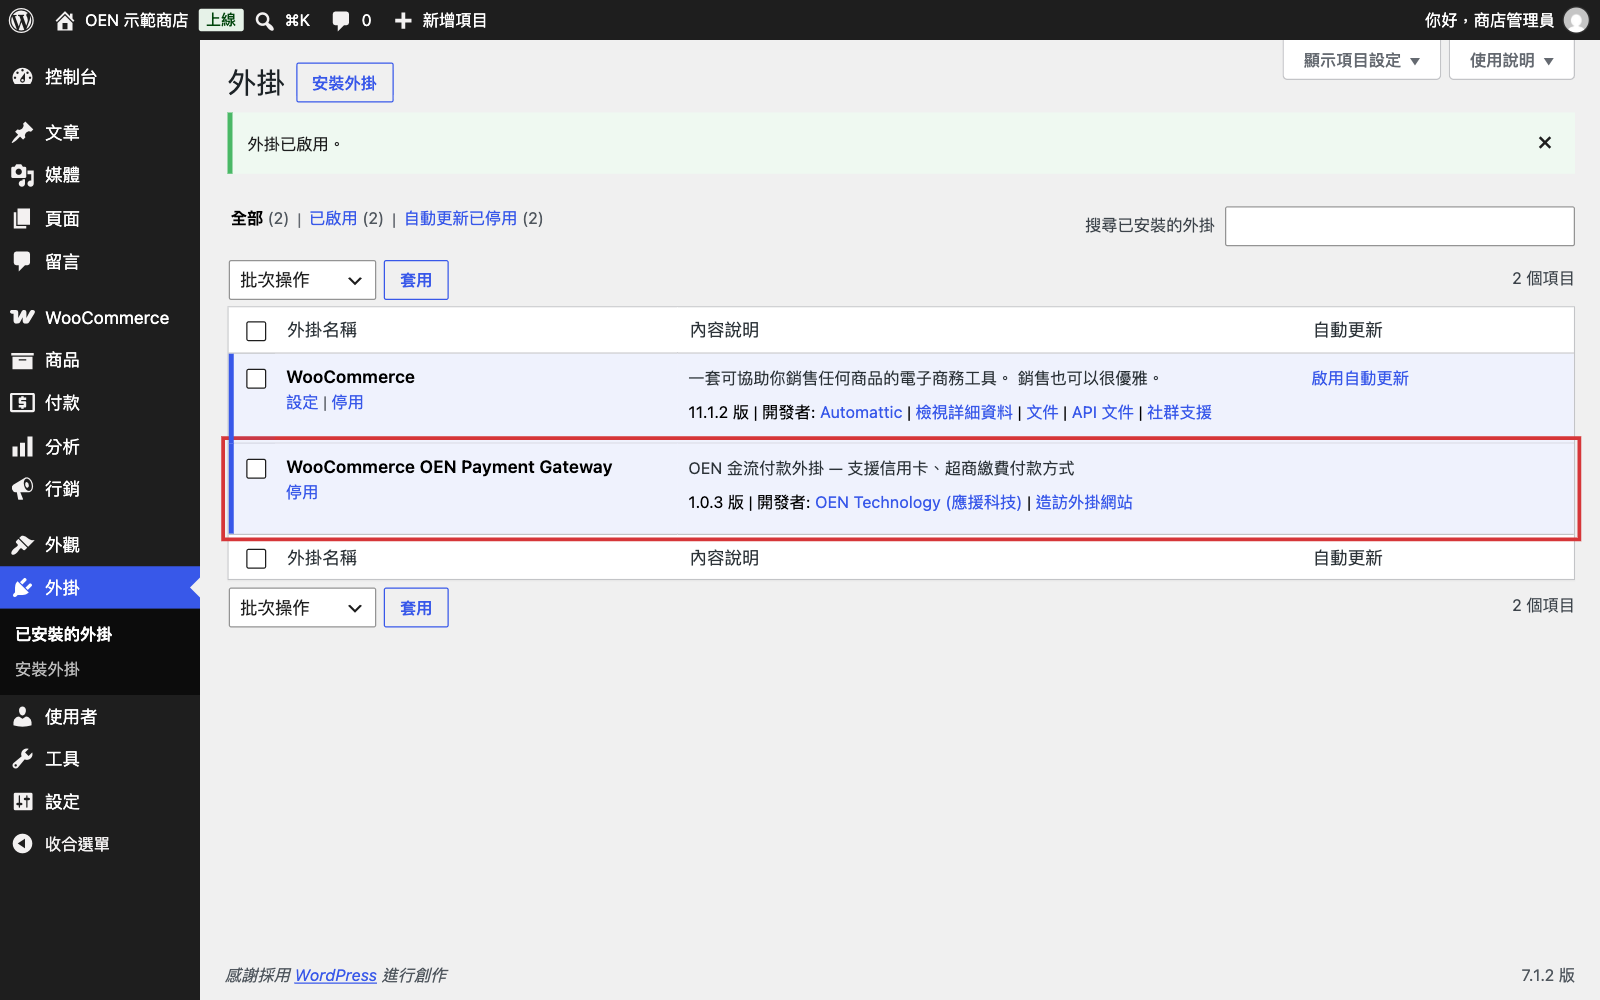
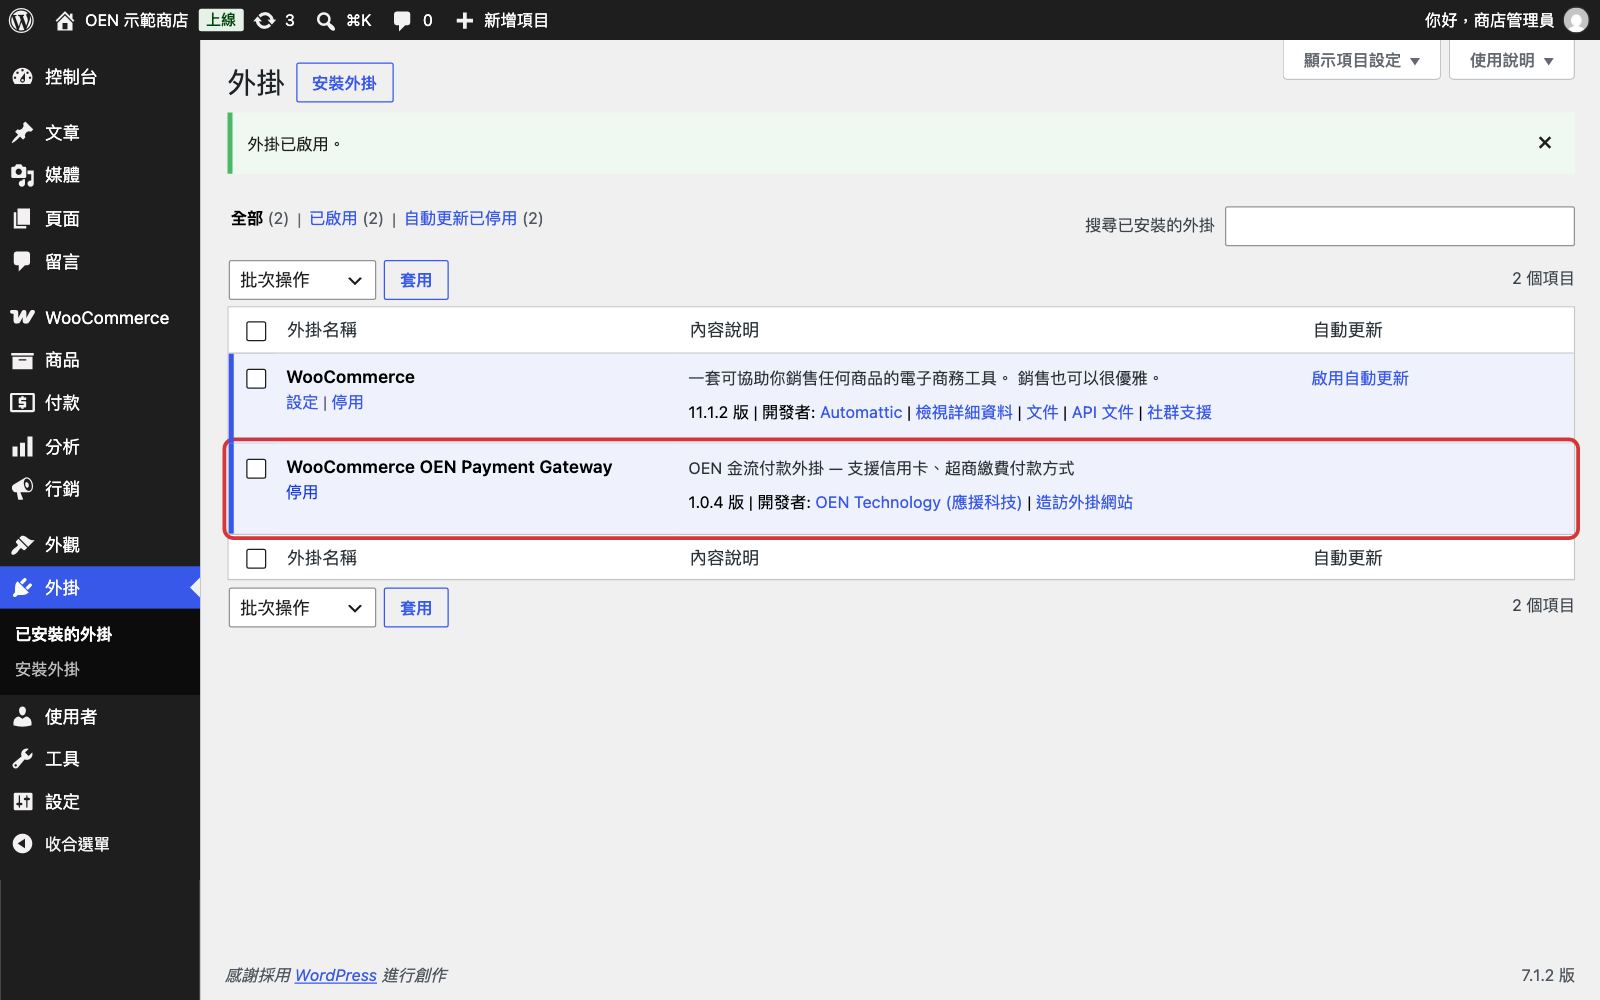
docs: address review notes
- The order number sent to OEN is the prefix plus the WooCommerce order ID;
  say so, and note that it differs from the displayed number only on stores
  with a custom order-number plugin.
- FAQ log table: "Session/API verification failed" also covers OEN
  rejecting the lookup (HTTP 401 means a wrong or revoked Secret Key or the
  wrong environment).
- README: state ATM as not supported instead of announcing it.
- Retake the plugin-list screenshot with the 1.0.4 header.

Changed region(s): [[0.125, 0.496, 1.0, 0.558], [0.125, 0.434, 1.0, 0.465], [0.1562, 0.0, 0.3438, 0.031]]

diff --git a/README.md b/README.md
@@ -62,7 +62,6 @@
 |---|---|---|---|
 | 信用卡 | OEN 信用卡 | 可用 | 可從 WooCommerce 後台全額或部分退款 |
 | 超商代碼繳費 | OEN 超商繳費 | 可用 | 不支援 |
-| ATM 虛擬帳號 | OEN 虛擬帳號轉帳 | 開發中，尚未開放 | — |
 
 結帳頁顯示名稱可在 **WooCommerce › 設定 › 付款** 中修改。
 
@@ -82,7 +81,7 @@
 - 金額以整數元送出。
 - 只有信用卡支援退款。
 - 應援金流的定期定額、綁定信用卡、多幣別收款，外掛目前不支援。
-- ATM 虛擬帳號尚未開放。
+- 不支援 ATM 虛擬帳號轉帳。
 - 超商繳費代碼以排程查詢取得，需要 WordPress 的排程（WP-Cron）正常執行。
 - 外掛不會刪除應援上的 Webhook。變更網站網址後，舊網址的 Webhook 如需移除，請洽應援。
 - 停用或刪除外掛不會清除外掛的設定與訂單資料。
@@ -138,7 +137,7 @@
 | 設定 | 說明 |
 |---|---|
 | 啟用 OEN 金流付款方式 | 主開關。關閉時所有應援付款方式都不會出現 |
-| 訂單編號前綴 | 加在 WooCommerce 訂單編號前面，組成送給應援的訂單編號。**有未付款訂單時請勿更改**：這些訂單再次進入結帳時，會因訂單編號與既有的應援付款不符而被拒絕 |
+| 訂單編號前綴 | 加在 WooCommerce 訂單 ID 前面，組成送給應援的訂單編號。訂單 ID 預設與訂單編號相同；使用自訂訂單編號的外掛時，以訂單 ID 為準。**有未付款訂單時請勿更改**：這些訂單再次進入結帳時，會因訂單編號與既有的應援付款不符而被拒絕 |
 | 顯示訂單商品名稱 | 送出逐項商品明細，而非單一彙總品項 |
 | 在 Email 中顯示付款資訊 | 在訂單通知信加入交易編號、付款時間、超商繳費代碼 |
 | OEN 測試環境 | 連線應援測試環境 |
@@ -235,7 +234,7 @@ https://<你的網站>/?wc-api=oen_payment
 
 建立應援付款時，外掛會送出：
 
-- 訂單總額（整數，新台幣）與訂單編號（訂單編號前綴＋WooCommerce 訂單編號）。
+- 訂單總額（整數，新台幣）與訂單編號（訂單編號前綴＋WooCommerce 訂單 ID）。
 - 帳單姓名與 Email。
 - 商品明細：未勾選「顯示訂單商品名稱」時為單一品項「{網站名稱} 訂單」；勾選時為逐項商品（SKU 或商品 ID、名稱、數量、含稅單價），另加手續費與運費。
 - 付款完成、失敗、取消時要導回的商店頁面網址。
@@ -297,7 +296,7 @@ sequenceDiagram
 |---|---|
 | OEN 信用卡 | `oen_credit` |
 | OEN 超商繳費 | `oen_cvs` |
-| OEN 虛擬帳號轉帳（尚未開放，不會註冊） | `oen_atm` |
+| OEN 虛擬帳號轉帳（不會註冊） | `oen_atm` |
 
 | 設定 | Option |
 |---|---|

diff --git a/docs/faq.md b/docs/faq.md
@@ -117,7 +117,7 @@
 | `Payment completed for order #…` | 已向應援確認付款並更新訂單 | 無須處理 |
 | `Invalid webhook signature`、`Missing OenPay-Signature header` | 應援通知的簽章驗證失敗 | 勾選「Re-register webhook」後儲存，重新同步簽章密鑰 |
 | `Expired webhook signature timestamp` | 伺服器時間和實際時間相差超過 300 秒 | 校正伺服器系統時間 |
-| `Session verification failed for order #…` | 外掛向應援查詢付款結果時連線失敗或逾時 | 確認網站能對外連線到應援。外掛不會變更訂單，並等待應援重送通知 |
+| `Session verification failed for order #…`、`API verification failed for order #…` | 外掛向應援查詢付款結果失敗：連線失敗、逾時，或應援拒絕查詢 | 確認網站能對外連線到應援。冒號後的訊息含 HTTP 401 時，確認 Secret Key 有效，且與「OEN 測試環境」的勾選屬於同一個環境。外掛不會變更訂單，並等待應援重送通知 |
 | `Order ID mismatch during …`、`Amount mismatch during …` | 應援查到的訂單編號或金額，與 WooCommerce 訂單不一致 | 檢查訂單建立後是否被改過金額；或這組應援憑證是否同時被其他網站（例如測試站）使用，通知屬於那個網站的訂單 |
 | `Order not found for OEN orderId: …` | 找不到對應的 WooCommerce 訂單 | 訂單可能已被刪除；或這組應援憑證同時被其他網站（例如測試站）使用，通知屬於那個網站的訂單 |
 | `Ignoring stale webhook for order #…` | 這是同一張訂單較早的付款嘗試（例如消費者改選了另一種應援付款方式） | 正常現象，無須處理 |

diff --git a/docs/setup-guide.md b/docs/setup-guide.md
@@ -141,7 +141,7 @@
 
 | 設定 | 說明 |
 |---|---|
-| 訂單編號前綴 | 加在 WooCommerce 訂單編號前面，組成送給應援的訂單編號。**有未付款訂單時請勿更改** |
+| 訂單編號前綴 | 加在 WooCommerce 訂單 ID 前面，組成送給應援的訂單編號。**有未付款訂單時請勿更改** |
 | 顯示訂單商品名稱 | 勾選後把逐項商品明細送給應援；未勾選時只送一筆「{網站名稱} 訂單」 |
 | 在 Email 中顯示付款資訊 | 在訂單通知信中加入應援交易編號、付款時間、超商繳費代碼 |
 
@@ -306,7 +306,7 @@ OEN webhook updated (…) and its signing secret refreshed.
 | 應援後台 | WooCommerce |
 |---|---|
 | 金流編號 | 訂單標題下方的交易編號 |
-| 訂單編號 | 「訂單編號前綴」加上 WooCommerce 訂單編號。例如前綴設為 `WC-`、訂單 #21，就是 `WC-21`；沒有設定前綴時就是 `21` |
+| 訂單編號 | 「訂單編號前綴」加上 WooCommerce 訂單 ID。訂單 ID 預設與訂單編號相同，例如前綴設為 `WC-`、訂單 #21，就是 `WC-21`；沒有設定前綴時就是 `21`。使用自訂訂單編號的外掛時，以訂單 ID 為準 |
 | 收取金額、金流狀態 | 訂單總額、訂單狀態 |
 
 ![應援後台的交易明細](images/30-crm-charge-detail.png)
